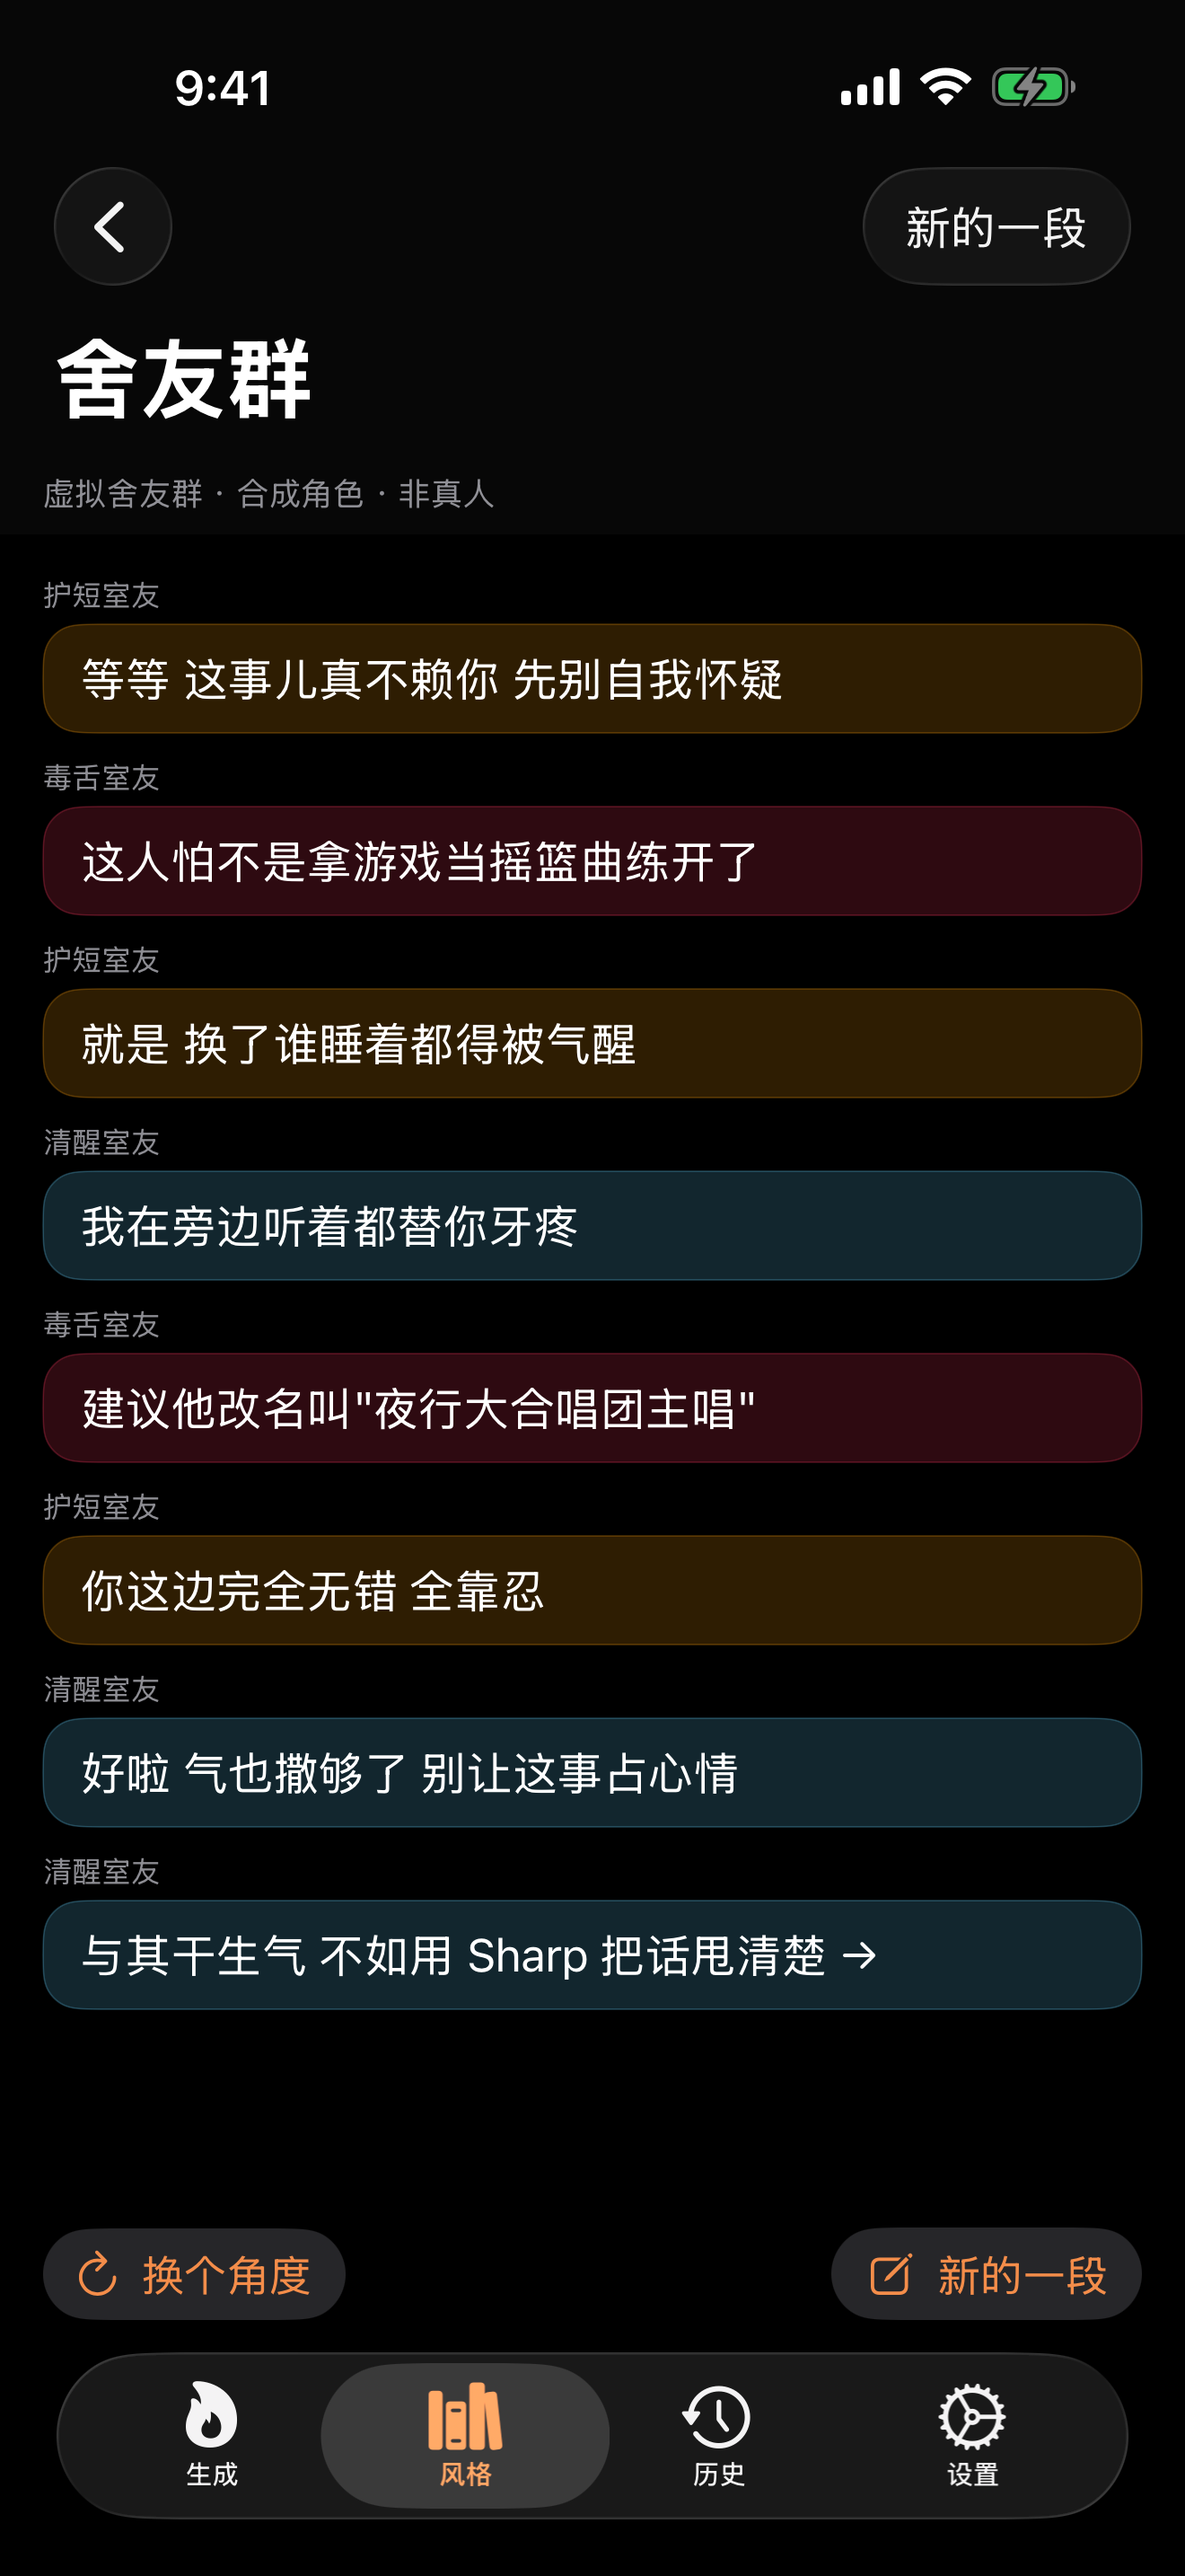
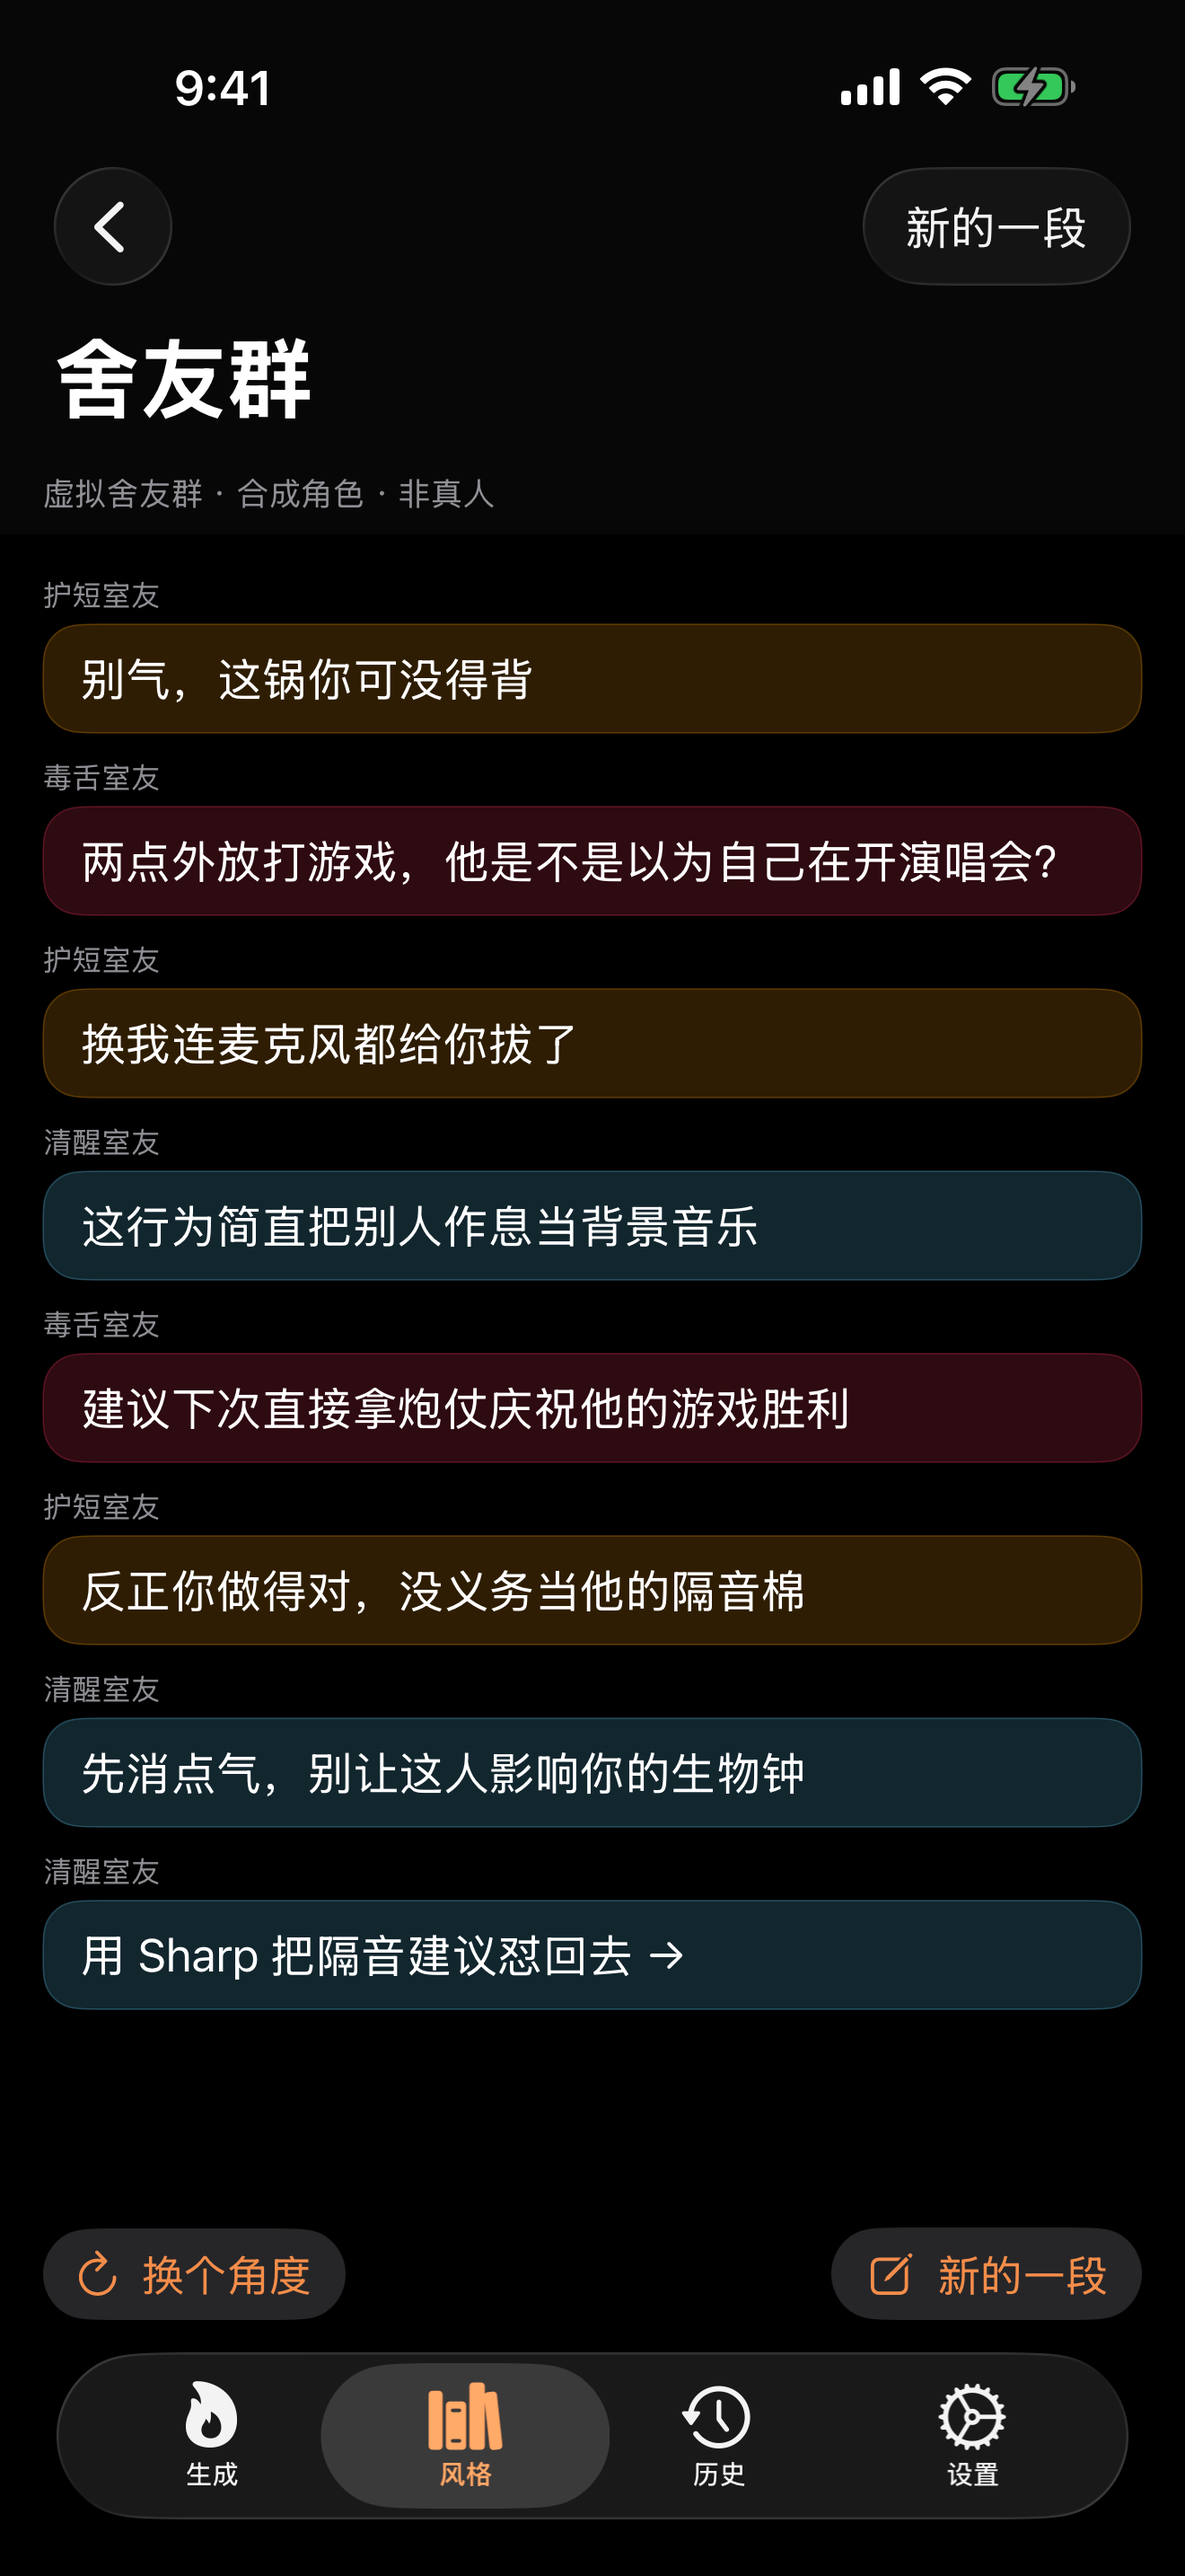
舍友群素材定稿:回滚到 round-3 生成(语句最通顺)+ 定向重抽测试
round-5 的群聊生成有拗口句(「拿游戏当摇篮曲练开了」),定向重抽两个
候选仍各有 1-2 句不通(Qwen3 群聊体输出方差大)。round-3 那版
(「他是不是以为自己在开演唱会?」)逐句通顺,从 9c4b012 恢复为定稿。

新增 test_screenshots_roommate_reroll:只重抽舍友群一幕,每跑一次出
两个候选(首次生成 + app 内换个角度),不动其余已定稿截图 —— 以后
嫌某条文案拗口就跑它。

diff --git a/RoastMateUITests/ScreenshotTests.swift b/RoastMateUITests/ScreenshotTests.swift
@@ -350,6 +350,82 @@ final class ScreenshotTests: XCTestCase {
         capture(app: app, name: "xhs-08-generator-vent")
     }
 
+    /// Targeted re-roll of the roommate group chat ONLY — for when a cloud
+    /// generation's prose is clunky and needs another try WITHOUT
+    /// re-rolling the other (already approved) captures. Each run yields
+    /// TWO candidates: the first generation (xhs-04-roommate-chat) and an
+    /// in-app 换个角度 regenerate (xhs-04-roommate-chat-alt).
+    func test_screenshots_roommate_reroll() {
+        let app = XCUIApplication()
+        app.launchArguments += [
+            "-uitest",
+            "-uitestLang", "zh-Hans",
+            "-AppleLanguages", "(zh-Hans)",
+            "-AppleLocale", "zh_Hans"
+        ]
+        app.launch()
+
+        let exploreTab = app.tabBars.buttons.element(boundBy: 1)
+        guard exploreTab.waitForExistence(timeout: 10) && exploreTab.isHittable else { return }
+        exploreTab.tap()
+        let roommateTile = anyElement(app, "roommate.tile")
+        var exploreScrolls = 0
+        while !roommateTile.exists && exploreScrolls < 4 {
+            app.swipeUp()
+            exploreScrolls += 1
+        }
+        guard roommateTile.waitForExistence(timeout: 8) else { return }
+        if !roommateTile.isHittable { app.swipeUp() }
+        roommateTile.tap()
+
+        let situation = anyElement(app, "echoes.situation")
+        guard situation.waitForExistence(timeout: 8) else { return }
+        situation.tap()
+        situation.typeText("室友半夜两点开外放打游戏，说了三次都当耳旁风")
+        app.navigationBars.firstMatch.tap()
+
+        let generate = anyElement(app, "echoes.generate")
+        guard generate.waitForExistence(timeout: 5) else { return }
+        var scrollTries = 0
+        while !generate.isHittable && scrollTries < 4 {
+            app.swipeUp()
+            scrollTries += 1
+        }
+        generate.tap()
+
+        let allow = app.buttons["允许 Feral 走云端"]
+        var consentTries = 0
+        while !allow.exists && consentTries < 10 {
+            sleep(1)
+            consentTries += 1
+        }
+        if allow.exists { allow.tap() }
+
+        let bridge = anyElement(app, "echoes.bridge")
+        var revealTries = 0
+        while !bridge.exists && revealTries < 110 {
+            sleep(1)
+            revealTries += 1
+        }
+        sleep(1)
+        capture(app: app, name: "xhs-04-roommate-chat")
+
+        // Candidate 2 via the in-app regenerate (one per session). Pace
+        // past Groq's per-minute window first, same as the main flow.
+        let reroll = app.buttons["换个角度"]
+        guard reroll.waitForExistence(timeout: 5) else { return }
+        sleep(45)
+        reroll.tap()
+        sleep(3)
+        revealTries = 0
+        while !bridge.exists && revealTries < 110 {
+            sleep(1)
+            revealTries += 1
+        }
+        sleep(1)
+        capture(app: app, name: "xhs-04-roommate-chat-alt")
+    }
+
     /// Find an element by accessibility id across the element types a
     /// SwiftUI control may surface as (same helper as EchoesFlowUITests).
     private func anyElement(_ app: XCUIApplication, _ id: String) -> XCUIElement {
